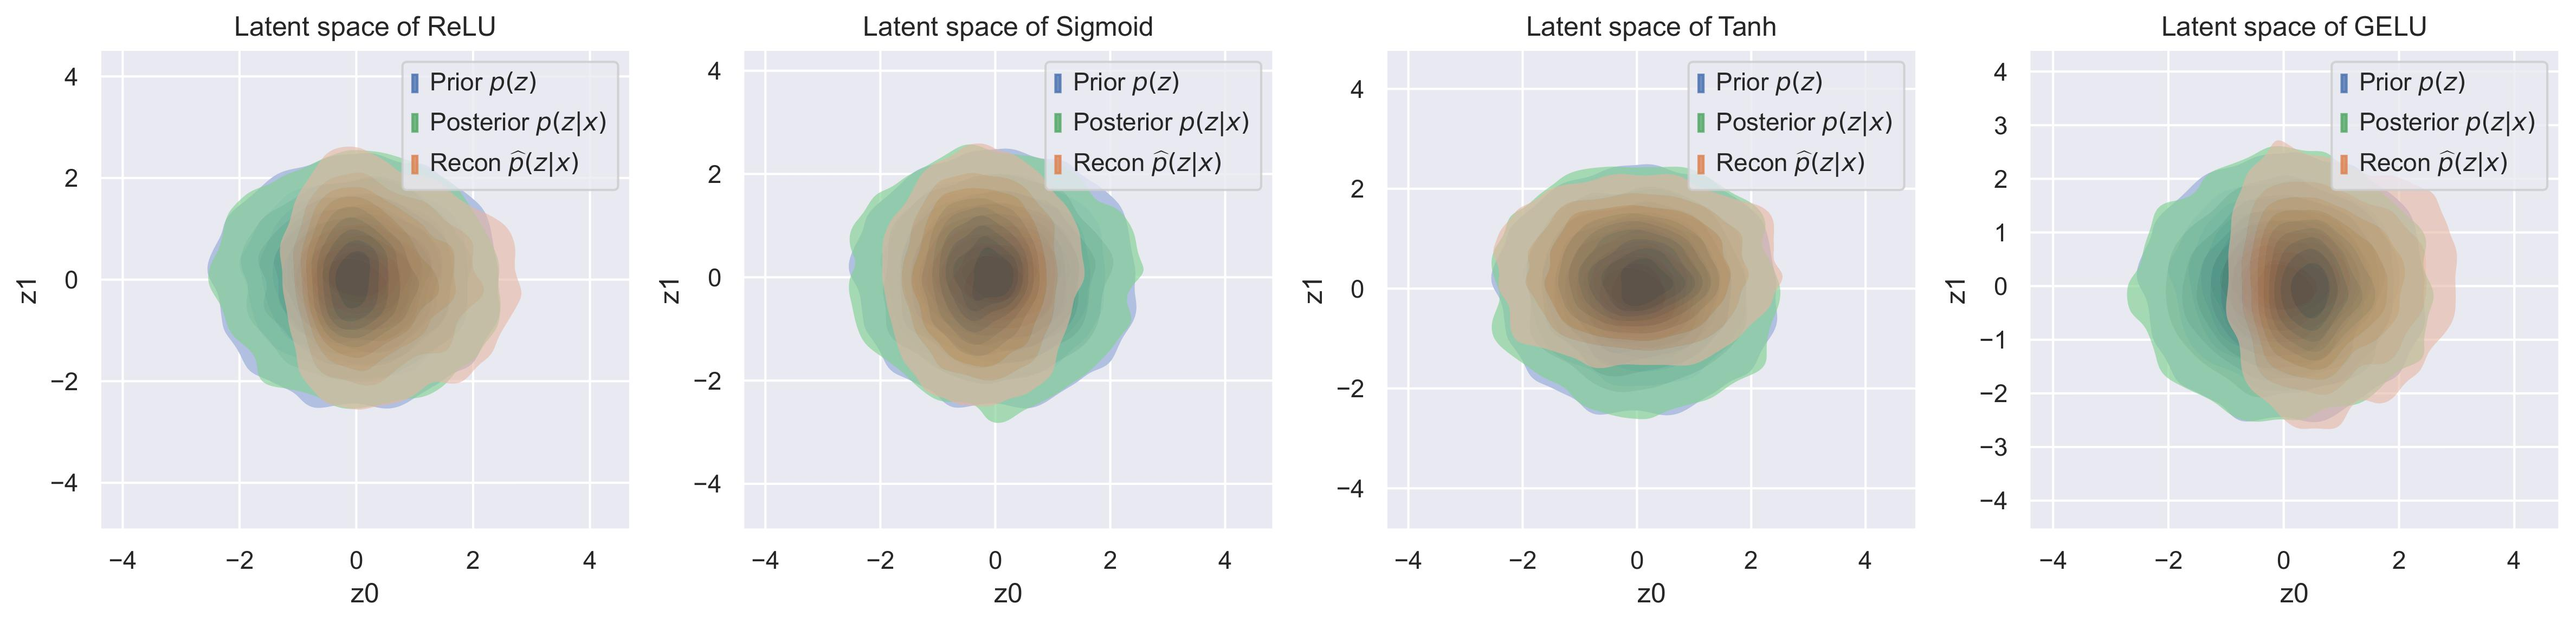
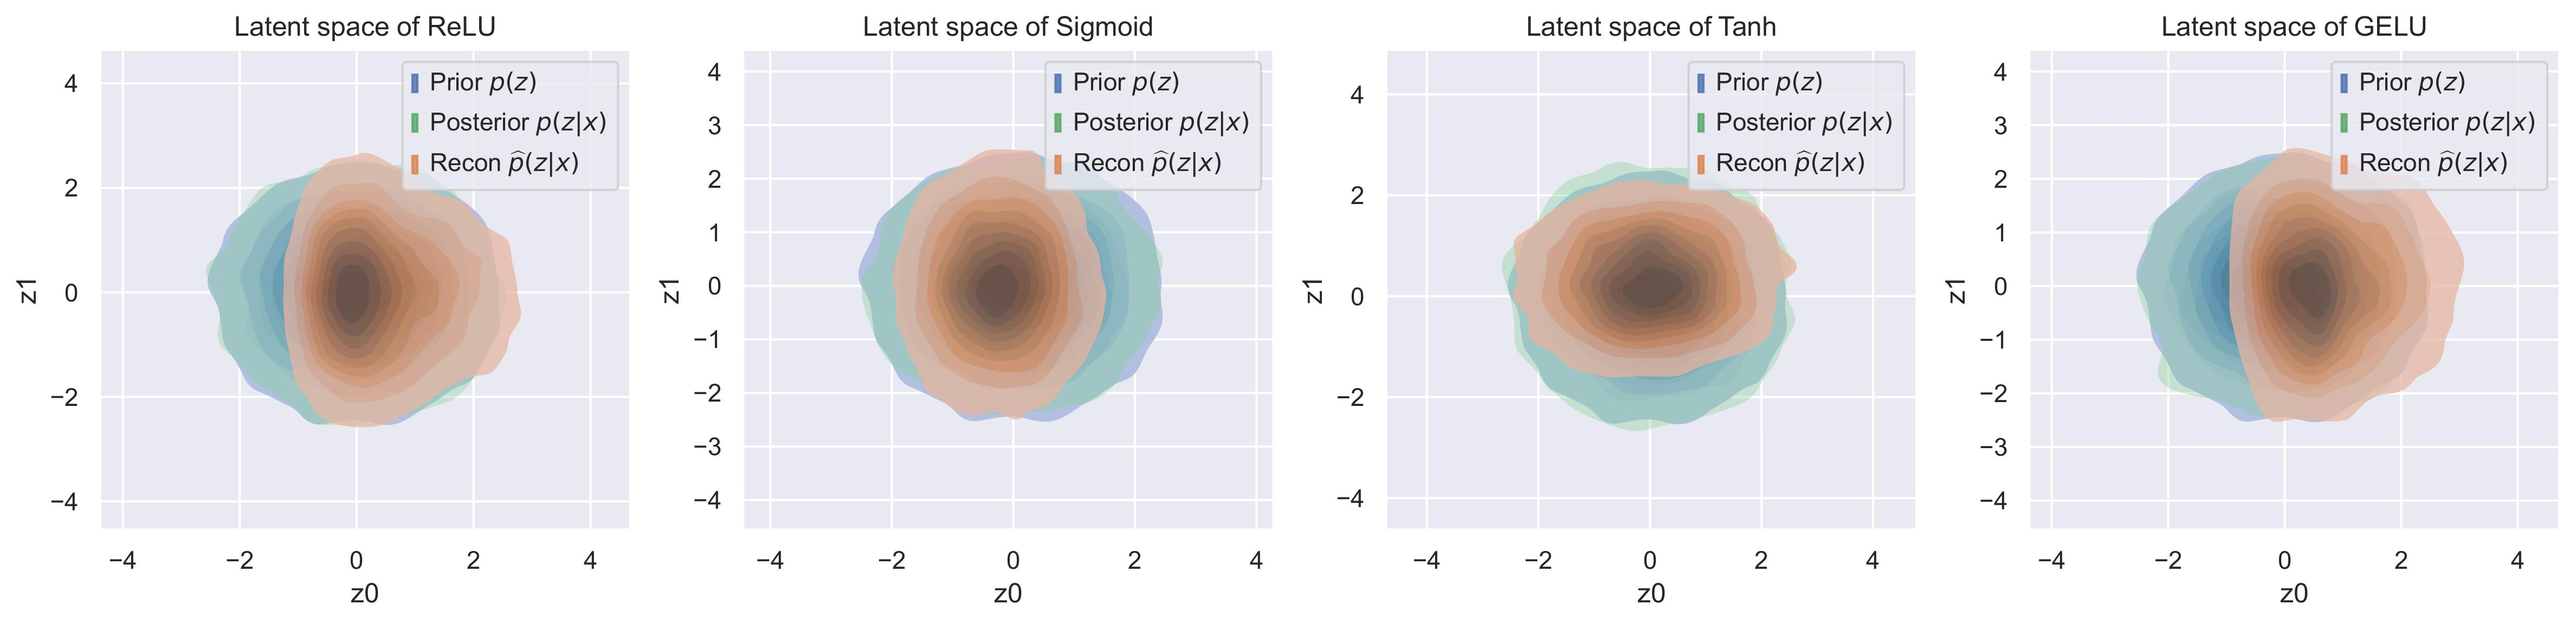
update

diff --git a/main.py b/main.py
@@ -75,4 +75,4 @@ if __name__ == "__main__":
     # run_vae(m=2, n=19, activation=nn.Sigmoid(), llh_method="mc")
     # run_vae(m=2, n=19, activation=nn.Tanh(), llh_method="mc")
     # run_vae(m=2, n=19, activation=nn.GELU(), llh_method="mc")
-    plot_vae(m=2, n=20, llh_method="mc")
+    plot_vae(m=2, n=19, llh_method="grid")
